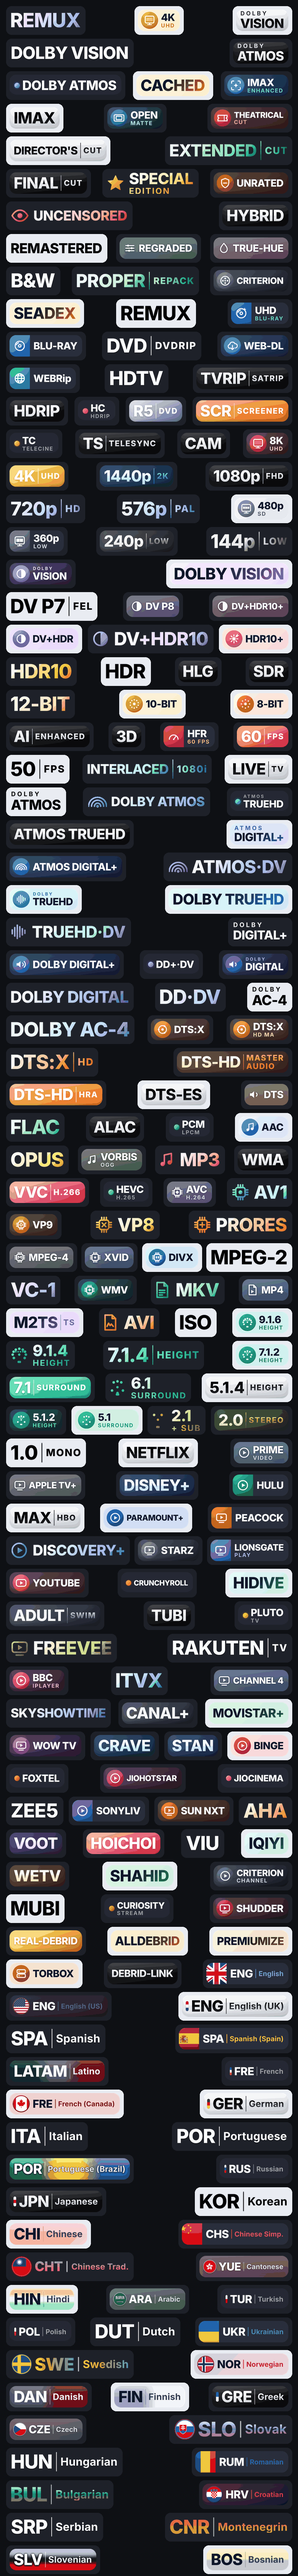
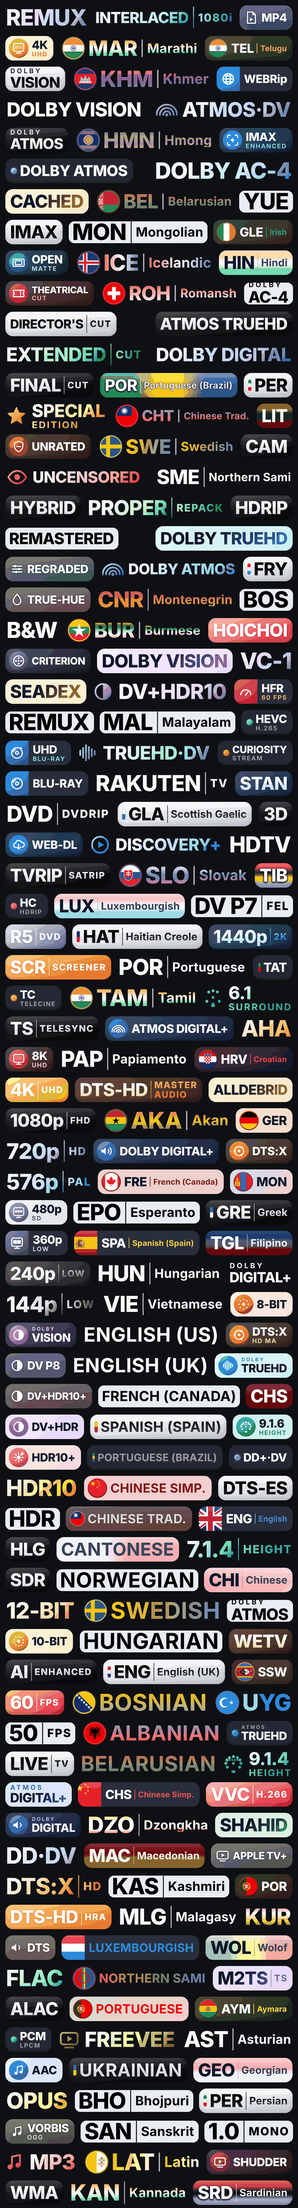
Landing page: gap-filled all-badges pictures without tile backgrounds

diff --git a/docs/index.html b/docs/index.html
@@ -5,7 +5,7 @@
 <meta name="description" content="Badges for Nuvio that turn messy release names into clear, readable tags. Make your own pack in three steps.">
 <link rel="preconnect" href="https://fonts.googleapis.com"><link rel="preconnect" href="https://fonts.gstatic.com" crossorigin>
 <link rel="stylesheet" href="https://fonts.googleapis.com/css2?family=IBM+Plex+Mono:wght@400;500&family=Schibsted+Grotesk:wght@400;500;600;700;800&display=swap">
-<link rel="stylesheet" href="assets/site.css?v=20261154">
+<link rel="stylesheet" href="assets/site.css?v=20261156">
 <style>.ap-m{display:none}@media(max-width:700px){.ap-d{display:none!important}.ap-m{display:block!important}}</style>
 </head><body>
 
@@ -36,8 +36,8 @@
  <h2>All 1366 badges, all 14 looks.</h2>
  <p class="sec-l">Every badge in the pack, each shown in a different look. Scroll to look through them all.</p>
  <details class="fold"><summary>See every badge in one picture</summary>
-  <a class="ap-d" href="assets/all-badges.png?v=20261154" target="_blank" rel="noopener"><img class="allpic" loading="lazy" decoding="async" src="assets/all-badges.png?v=20261154" width="3000" height="5541" alt="Every FR Badges badge shown in a mix of the 14 looks"></a>
-  <div class="ap-m"><img class="allpic" loading="lazy" decoding="async" src="assets/all-badges-m1.png?v=20261154" width="780" alt="Every FR Badges badge in a mix of the 14 looks, part 1 of 6"><img class="allpic" loading="lazy" decoding="async" src="assets/all-badges-m2.png?v=20261154" width="780" alt="Every FR Badges badge in a mix of the 14 looks, part 2 of 6"><img class="allpic" loading="lazy" decoding="async" src="assets/all-badges-m3.png?v=20261154" width="780" alt="Every FR Badges badge in a mix of the 14 looks, part 3 of 6"><img class="allpic" loading="lazy" decoding="async" src="assets/all-badges-m4.png?v=20261154" width="780" alt="Every FR Badges badge in a mix of the 14 looks, part 4 of 6"><img class="allpic" loading="lazy" decoding="async" src="assets/all-badges-m5.png?v=20261154" width="780" alt="Every FR Badges badge in a mix of the 14 looks, part 5 of 6"><img class="allpic" loading="lazy" decoding="async" src="assets/all-badges-m6.png?v=20261154" width="780" alt="Every FR Badges badge in a mix of the 14 looks, part 6 of 6"></div></details>
+  <a class="ap-d" href="assets/all-badges.png?v=20261156" target="_blank" rel="noopener"><img class="allpic" loading="lazy" decoding="async" src="assets/all-badges.png?v=20261156" width="3000" height="5782" alt="Every FR Badges badge shown in a mix of the 14 looks"></a>
+  <div class="ap-m"><img class="allpic" loading="lazy" decoding="async" src="assets/all-badges-m1.png?v=20261156" width="780" alt="Every FR Badges badge in a mix of the 14 looks, part 1 of 6"><img class="allpic" loading="lazy" decoding="async" src="assets/all-badges-m2.png?v=20261156" width="780" alt="Every FR Badges badge in a mix of the 14 looks, part 2 of 6"><img class="allpic" loading="lazy" decoding="async" src="assets/all-badges-m3.png?v=20261156" width="780" alt="Every FR Badges badge in a mix of the 14 looks, part 3 of 6"><img class="allpic" loading="lazy" decoding="async" src="assets/all-badges-m4.png?v=20261156" width="780" alt="Every FR Badges badge in a mix of the 14 looks, part 4 of 6"><img class="allpic" loading="lazy" decoding="async" src="assets/all-badges-m5.png?v=20261156" width="780" alt="Every FR Badges badge in a mix of the 14 looks, part 5 of 6"><img class="allpic" loading="lazy" decoding="async" src="assets/all-badges-m6.png?v=20261156" width="780" alt="Every FR Badges badge in a mix of the 14 looks, part 6 of 6"></div></details>
 </section></div>
 
 <div class="w"><section id="whats-in-it">
@@ -71,9 +71,9 @@
 <footer><span>FR Badges</span><span>Not affiliated with Nuvio.</span><a href="https://github.com/farizmohd70/FR-Badges" target="_blank" rel="noopener">github.com/farizmohd70/FR-Badges</a></footer></div>
 
 <script src="assets/styles.js"></script>
-<script src="assets/landing.js?v=20261154"></script>
-<script src="assets/ui.js?v=20261154"></script>
-<script src="assets/config.js?v=20261154"></script>
+<script src="assets/landing.js?v=20261156"></script>
+<script src="assets/ui.js?v=20261156"></script>
+<script src="assets/config.js?v=20261156"></script>
 <script>(function(){var B=window.FR_COMMUNITY,L=document.getElementById('cmhome');if(!B||!L)return;
 function esc(s){return String(s).replace(/[&<>"]/g,function(c){return{'&':'&amp;','<':'&lt;','>':'&gt;','"':'&quot;'}[c]})}
 fetch(B+'index.json').then(function(r){if(!r.ok)throw 0;return r.json()}).then(function(j){var l=(j.badges||[]).filter(function(b){return /^[0-9a-f]{12}$/.test(b.id)}).slice(0,4);
